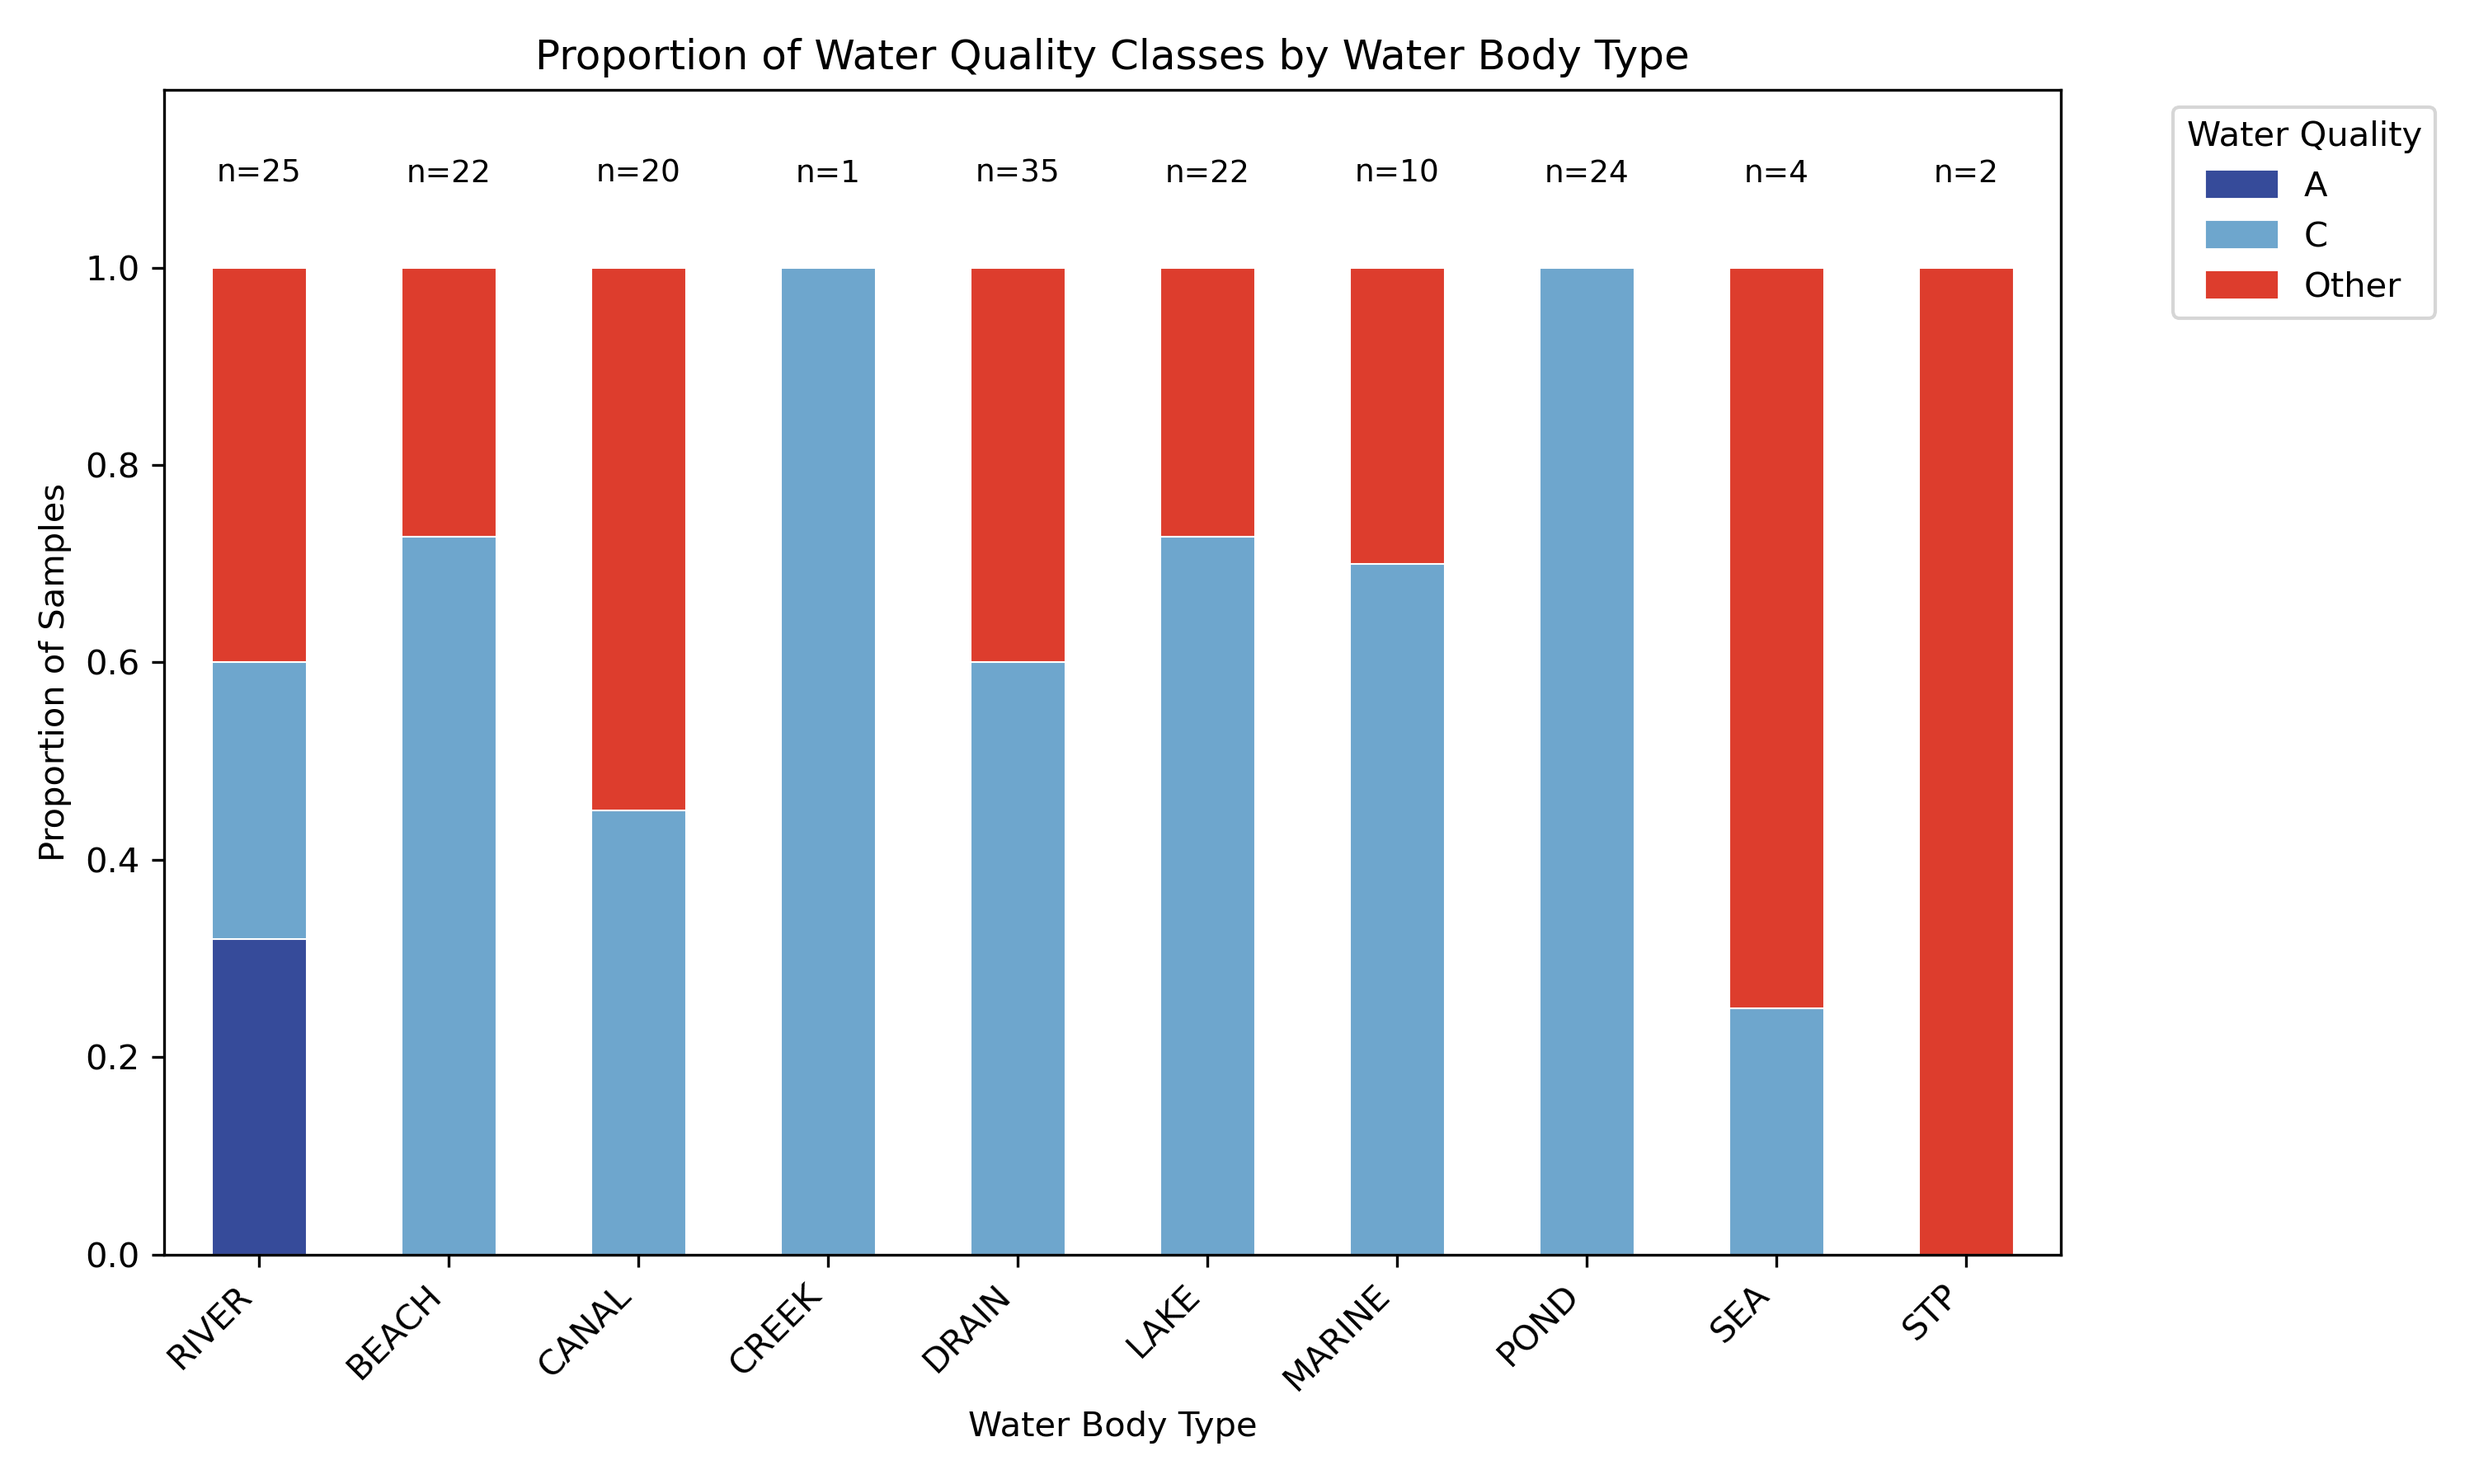
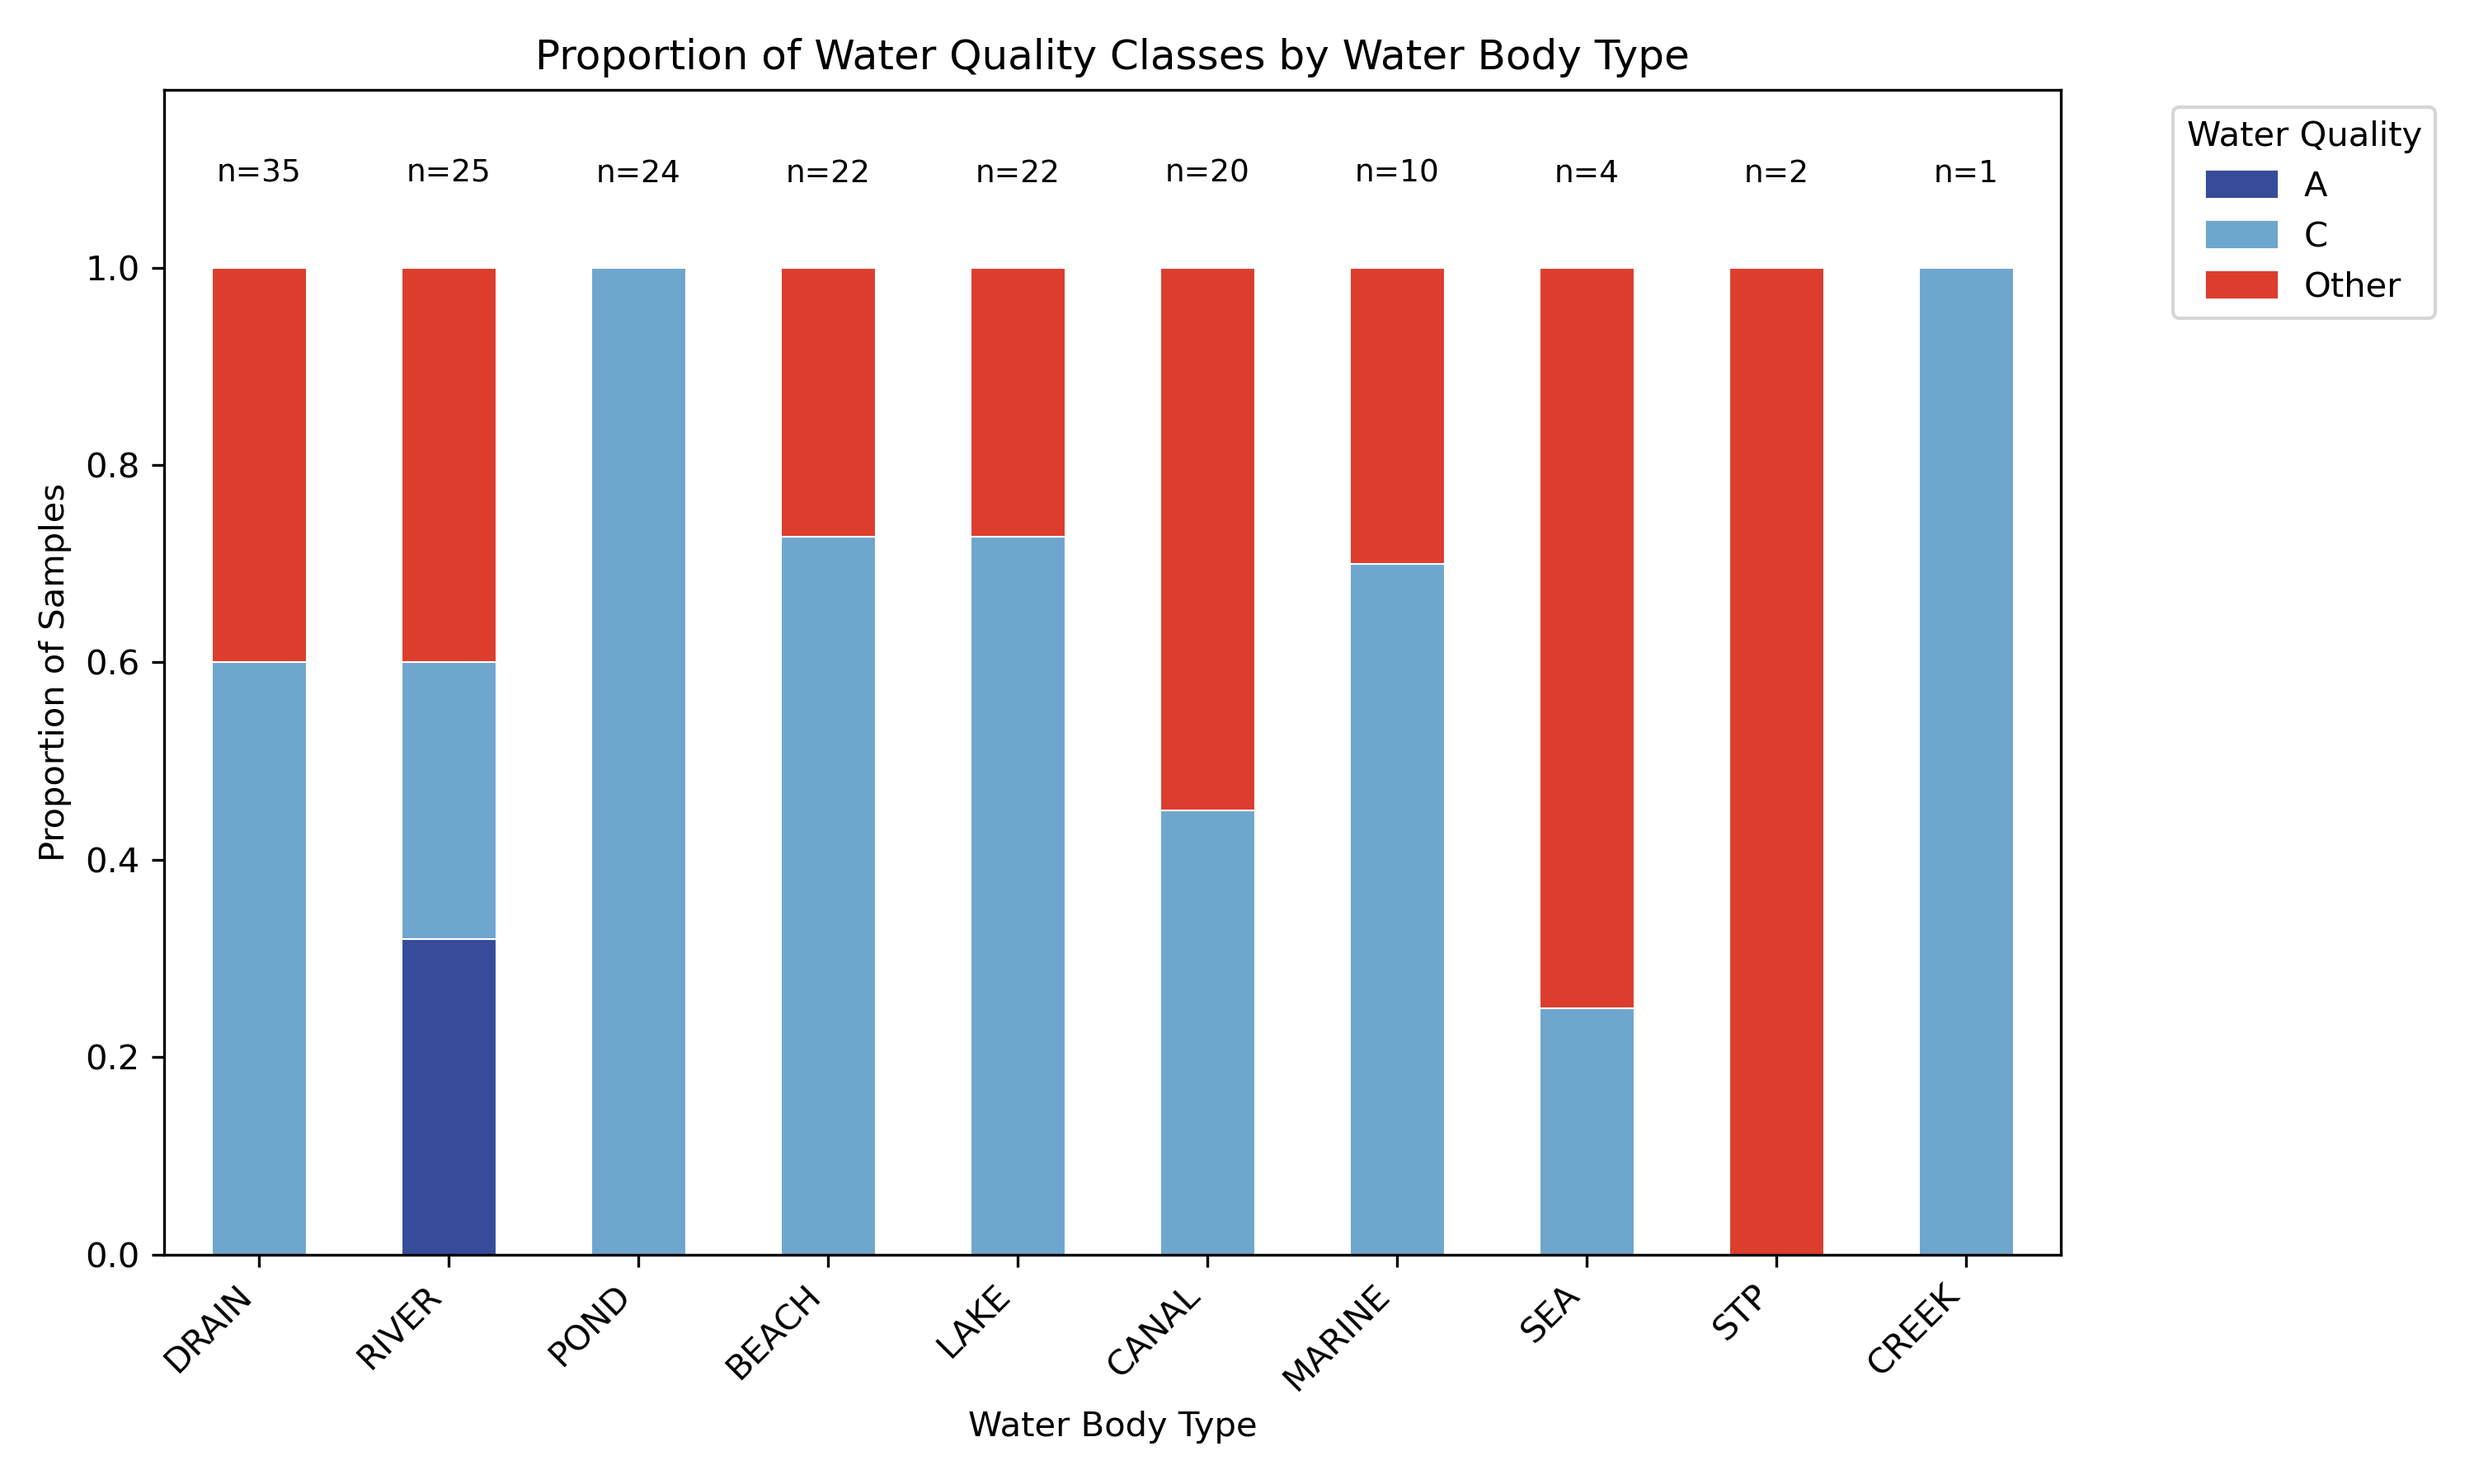
Update logic for data-exploration

diff --git a/data-exploration.py b/data-exploration.py
@@ -32,14 +32,14 @@ print("All files found")
 # -------------------------------------------------------------------
 # Class order, labels, and color palette
 # -------------------------------------------------------------------
-class_order = [1, 2, 0]
-class_labels = {1: 'A', 2: 'C', 0: 'Other'}
+class_order = [2, 1, 0]
+class_labels = {2: 'A', 1: 'C', 0: 'Other'}
 x_tick_labels = [class_labels[i] for i in class_order]
 
 # Color-blind–friendly blue → light blue → red
 palette_custom = {
-    1: "#364B9A",  # Blue  → Class A (Good)
-    2: "#6EA6CD",  # Light Blue → Class C (Moderate)
+    2: "#364B9A",  # Blue  → Class A (Good)
+    1: "#6EA6CD",  # Light Blue → Class C (Moderate)
     0: "#DD3D2D"   # Red   → Class Other (Poor)
 }
 
@@ -111,7 +111,8 @@ df['water_body_type'] = df[body_cols].idxmax(axis=1).str.replace('Type Water Bod
 counts_bt = df.groupby(['water_body_type', 'water_quality']).size().unstack(fill_value=0)
 props_bt = counts_bt.div(counts_bt.sum(axis=1), axis=0).reindex(columns=class_order, fill_value=0)
 
-order_bt = props_bt.sort_values(by=1, ascending=False).index
+# Order water body types by total number of samples (descending)
+order_bt = counts_bt.sum(axis=1).sort_values(ascending=False).index
 n_per_bt = counts_bt.loc[order_bt].sum(axis=1)
 
 ax = props_bt.loc[order_bt].plot(
@@ -159,7 +160,8 @@ df['state'] = df[state_cols].idxmax(axis=1).str.replace('State Name_', '', regex
 counts_st = df.groupby(['state', 'water_quality']).size().unstack(fill_value=0)
 props_st = counts_st.div(counts_st.sum(axis=1), axis=0).reindex(columns=class_order, fill_value=0)
 
-order_st = props_st.sort_values(by=1, ascending=False).index
+# Order states by total number of samples (descending)
+order_st = counts_st.sum(axis=1).sort_values(ascending=False).index
 n_per_st = counts_st.loc[order_st].sum(axis=1)
 
 ax = props_st.loc[order_st].plot(
